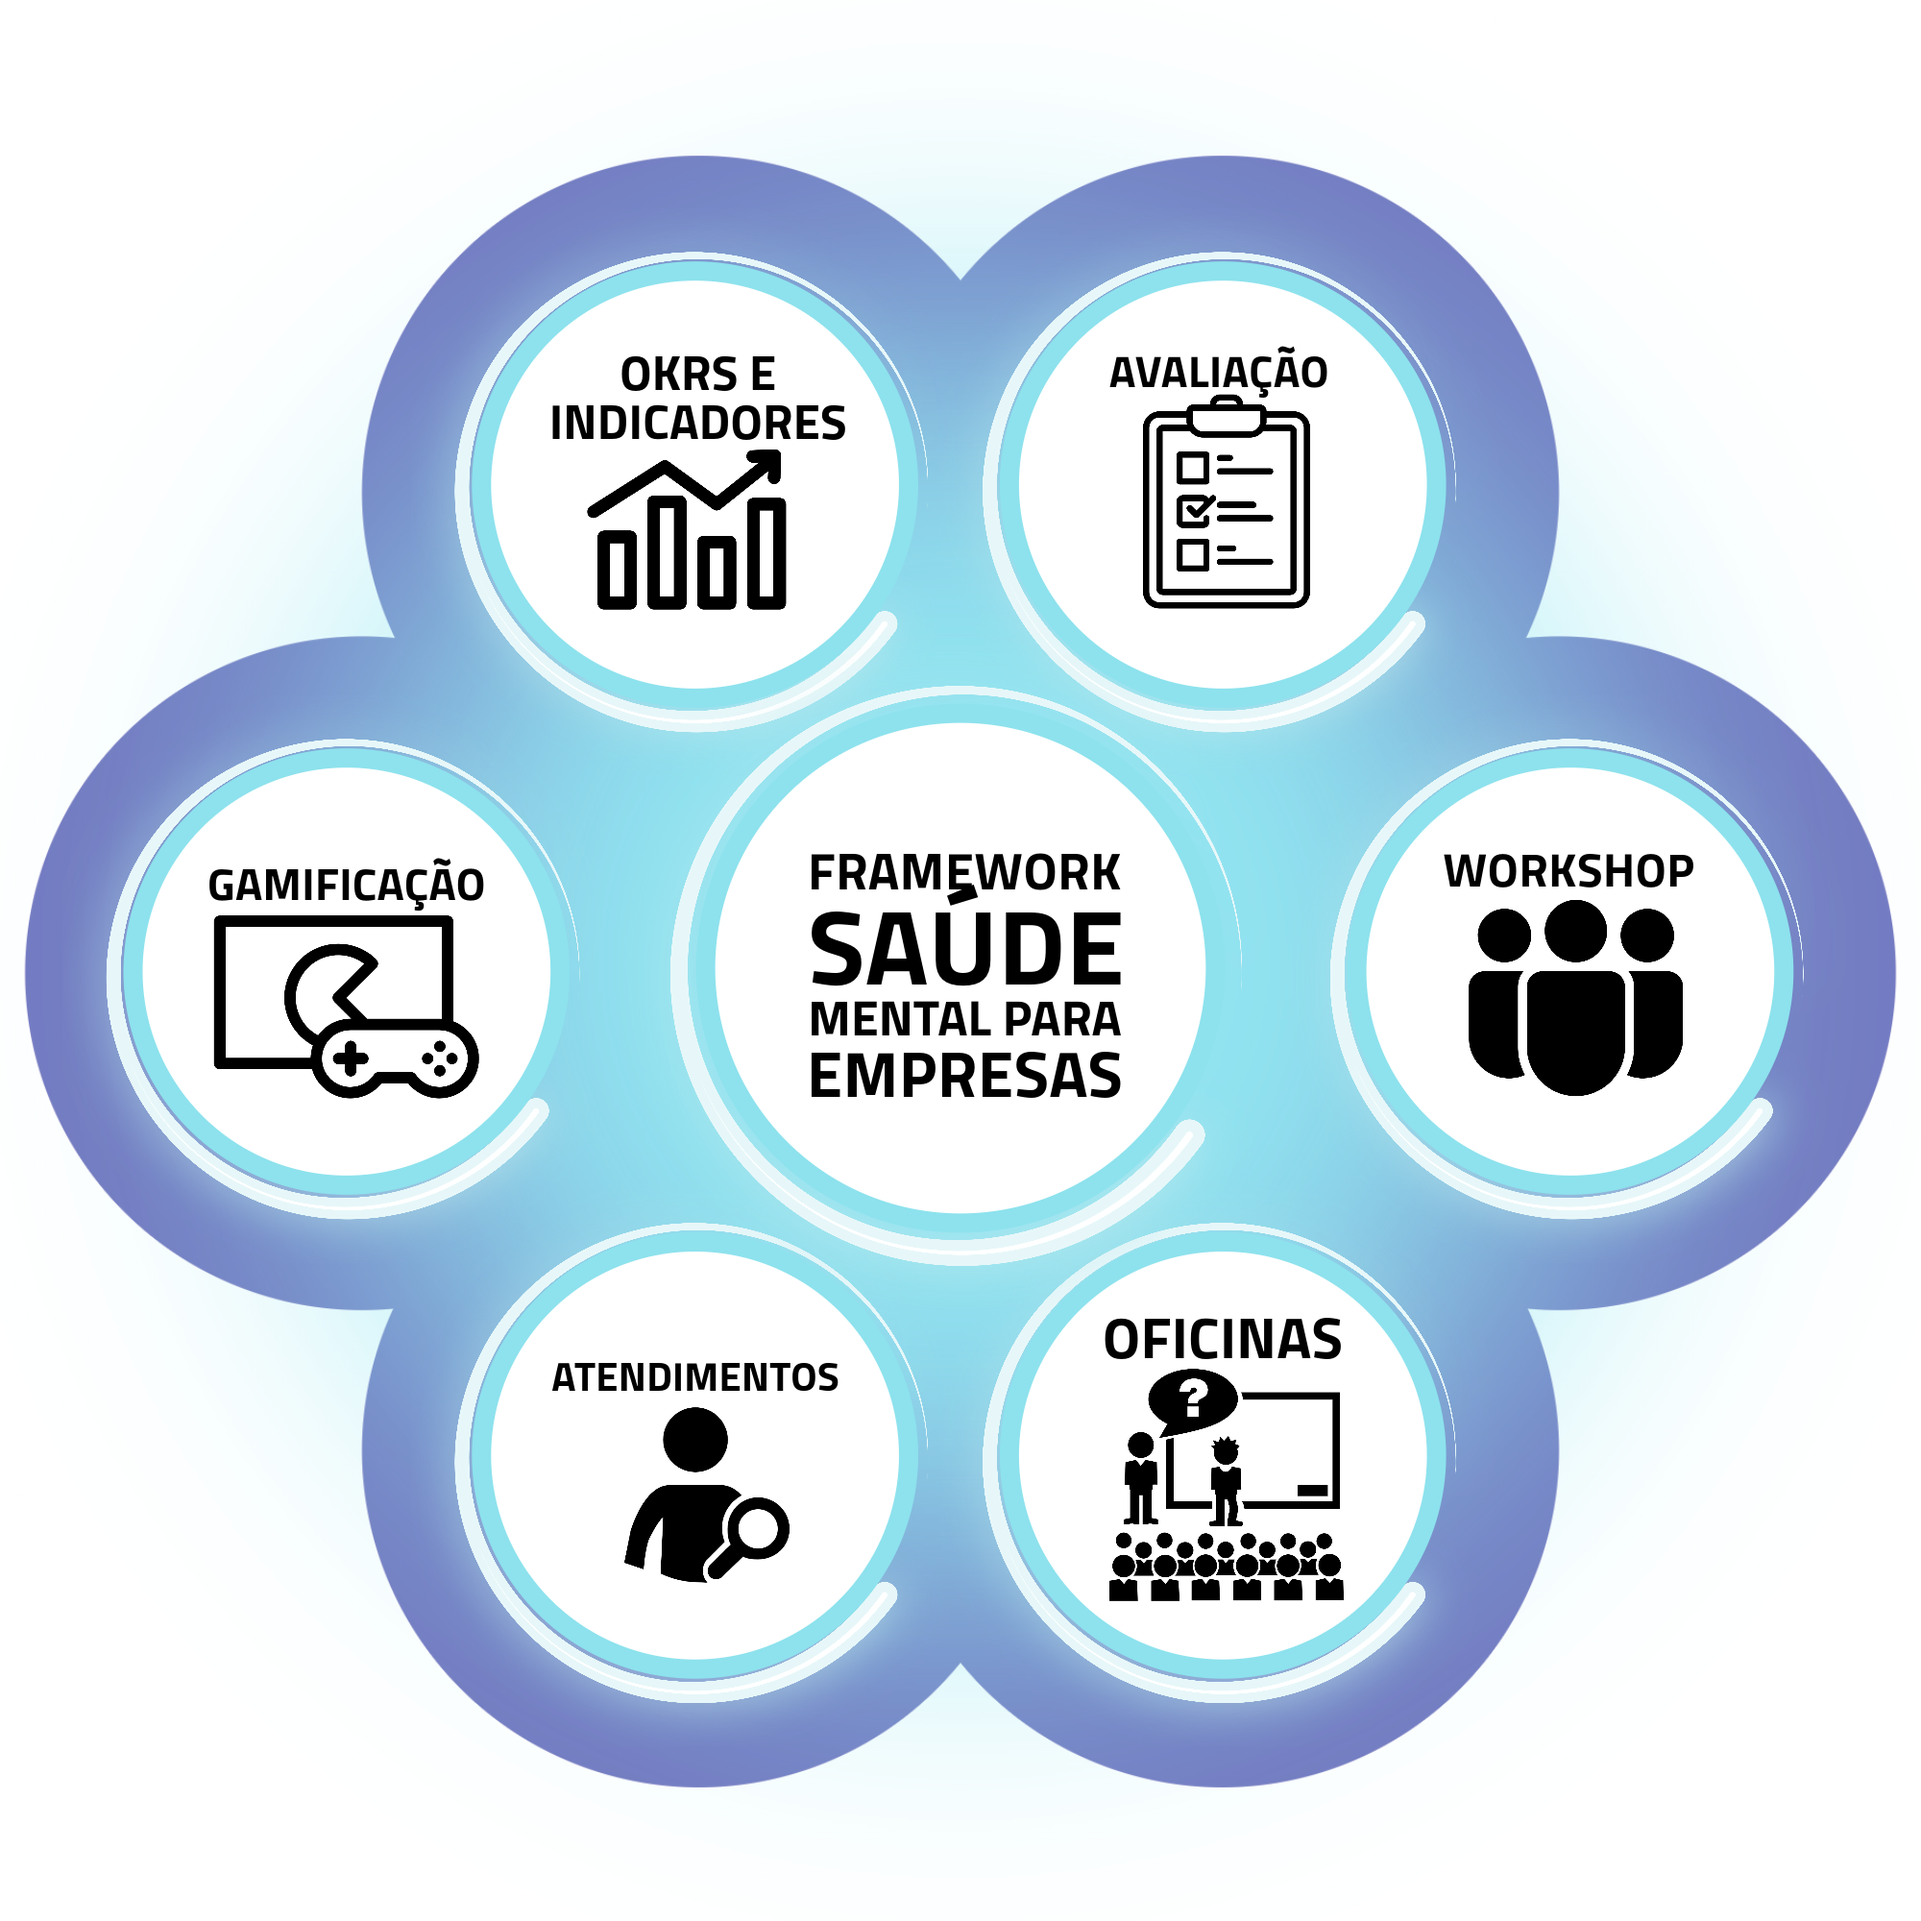
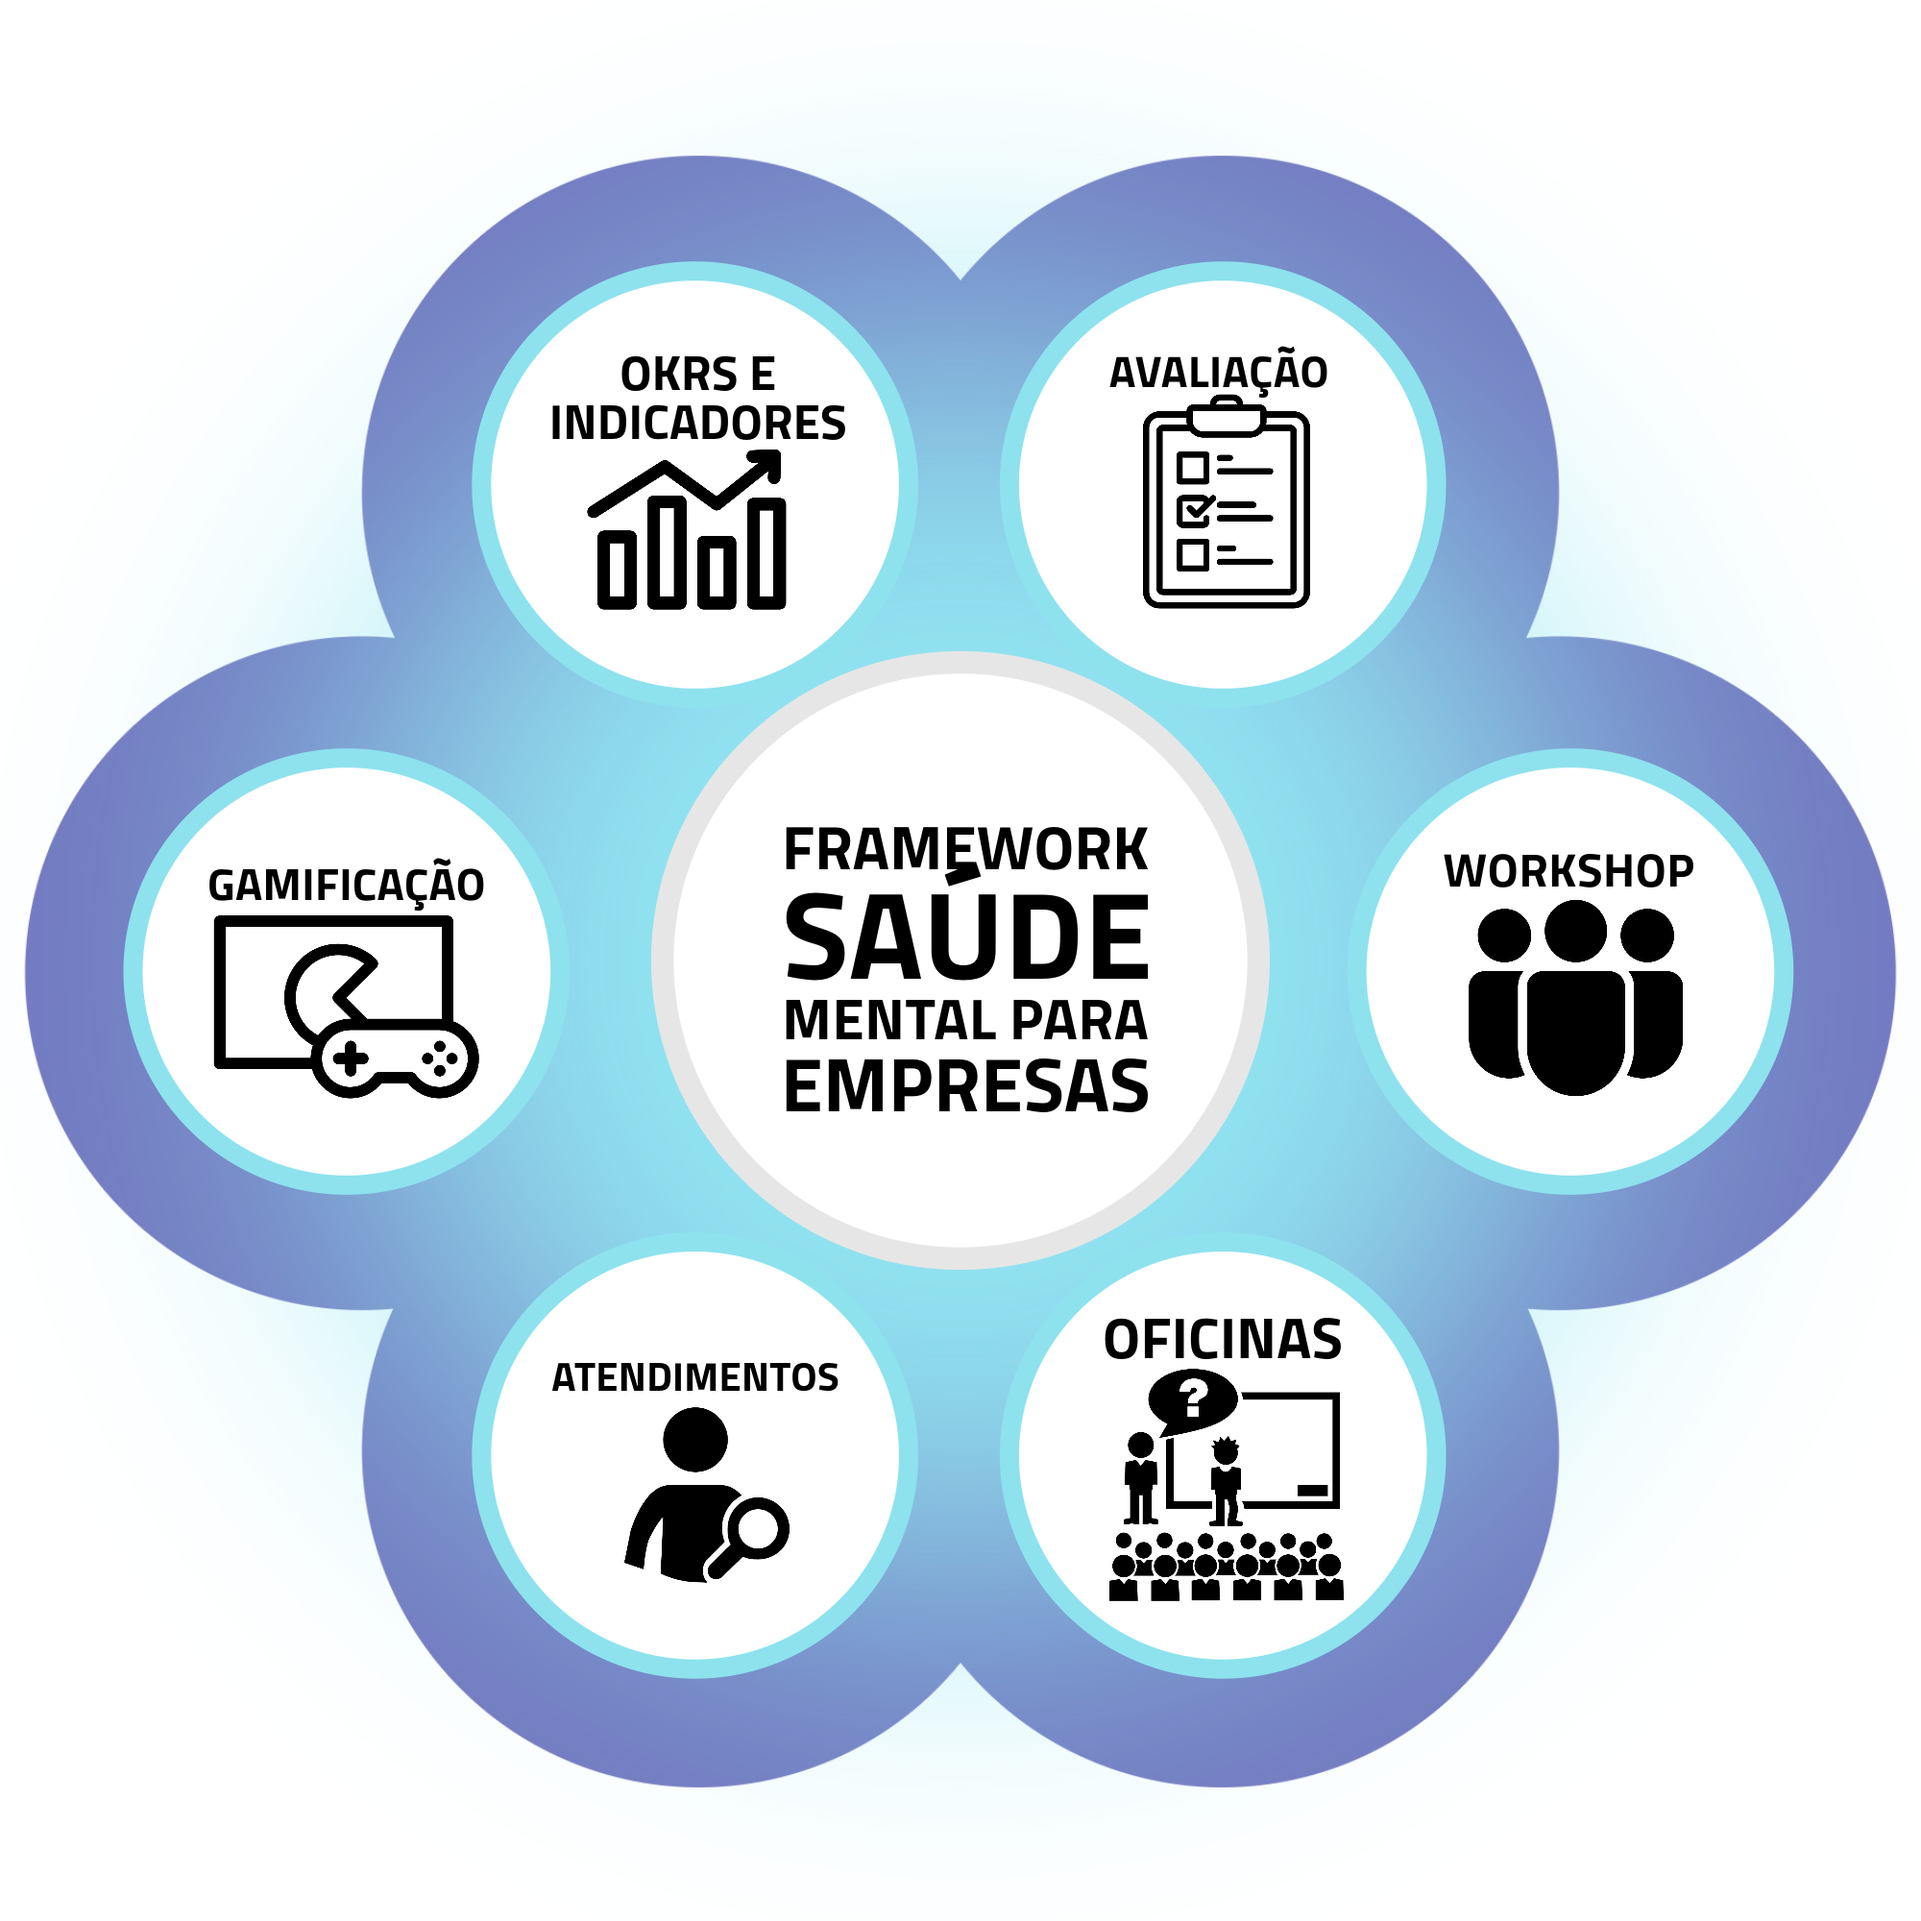
ajustes

diff --git a/Assets/style.css b/Assets/style.css
@@ -3,7 +3,6 @@
     padding: 0px;
     box-sizing: border-box;
     font-family: 'Chakra Petch', sans-serif;
-    scroll-behavior: smooth;
 }
 
 :root{
@@ -12,19 +11,19 @@
 
 /*Scroolbar*/
 ::-webkit-scrollbar {
-    width: 7px;
+    width: 10px;
 }
   
 ::-webkit-scrollbar-track {
-    background: #d8d8d8; 
+    background: #f1f1f1; 
 }
    
 ::-webkit-scrollbar-thumb {
-    background: #777777; 
+    background: #b9b9b9; 
 }
   
 ::-webkit-scrollbar-thumb:hover {
-    background: #ffc61a; 
+    background: #7e7e7e; 
   }
 
 .center{
@@ -37,8 +36,6 @@
     position: relative;
 }
 
-
-
 /*---------------------------Barras---------------------------*/
 @keyframes bar {
     to {
@@ -47,8 +44,8 @@
 }
 
 .bar {
-    border: 5px solid rgb(0, 0, 0);
-    width: auto;
+    border: 5px solid #000000;
+    width: 100%; 
     height: 40px; 
     background-color: var(--color-one);
     background-image: linear-gradient(
@@ -68,36 +65,29 @@
 }
 
 /*------------------------------------------------------*/
-
-/*------------------------------------------------------*/
 .background{
     display: flex; 
     justify-content: center; 
     position: fixed; 
     width: 100%;
     height: 100%;
-    -o-object-fit:cover;
-    object-fit:cover; 
-
+    -o-object-fit: cover;
+    object-fit: cover; 
 }
 
 /*------------------------------------------------------*/
 
 
 .box-title{
-    margin-bottom: 30px; 
-    
+    margin: 25px; 
 }
 
 .title-project{
-    max-width: 900px;
-    width: 70%;  
+    max-width: 1000px;
     text-align: center;
-    font-size: 20px;
-    padding: 30px;
-    border-bottom: 1px solid black;
-    text-shadow: 3px 3px 2px rgba(0, 0, 0, 0.137);
-    
+    padding: 10px;
+    border-bottom: 1px solid #000000;
+    text-shadow: 0px 0px 5px #979797; 
 }
 
 .display-img{ 
@@ -106,22 +96,21 @@
 }
 
 .top-img{
-    width: 130px;
-    height: 130px;
+    width: 100px;
+    height: 100px;
 }
 
 /*------------------------------------------------------*/
 
 .box-dev{
-    margin: auto; 
-    text-align: center;
-    max-width: 700px; 
-    width: 100%;
-    padding: 30px; 
+    text-align: center; 
+    max-width: 800px;  
+    padding: 25px; 
     background-color:#f2f2f200;
-    box-shadow: 0px 0px 20px 0px rgba(0, 0, 0, 0.219);
-    backdrop-filter: blur(5px) saturate(100%);
-    border-radius: 100px;
+    box-shadow: 0px 0px 15px 0px rgba(0, 0, 0, 0.219);
+    backdrop-filter: blur(3px) saturate(100%);
+    border-radius: 30px; 
+    flex-wrap: wrap;
 
 }
 
@@ -135,15 +124,14 @@
 }
 
 /*------------------------------------------------------*/
-video {
-    padding: 30px; 
-    margin: 30px;
+.mandala {
+    padding: 20px;
+    margin-top: 20px;
     width: 100%;
-    max-width: 750px;
-    height: auto;
+    max-width: 800px;
     box-shadow: 0px 0px 20px 0px rgba(0, 0, 0, 0.219);
-    border-radius: 50%;
-    backdrop-filter: blur(5px) saturate(100%);
+    border-radius: 30px;
+    backdrop-filter: blur(3px) saturate(100%);
     pointer-events: none; 
 }
 
@@ -187,6 +175,15 @@ section.card{
 
 
 @media screen and (max-width: 720px) {
+    .box-dev{
+        margin: 0px 20px;
+
+    }
+
+    .mandala{
+
+    }
+
     main.cards {
         flex-direction: column;
     }

diff --git a/index.html b/index.html
@@ -37,28 +37,23 @@
     </section>
 
     <!--Título_Descrição-->
-    <section class="box-dev">
+    <section class="box-dev center">
         <div class="title-dev"> 
             <h2> PROJETO EM DESENVOLVIMENTO </h2>
         </div>
         <div class="sub-title-dev">
-            <p> Atualmente este projeto está em fase de desenvolvimento pela equipe do Centro de Inovação SESI </p>
+            <p>Este projeto está em fase de desenvolvimento pela equipe do Centro de Inovação SESI</p>
         </div>
     </section>
     
     <!--Framework-->
-    <figure class="center">
-        <video  autoplay muted loop>
-            <source src="./Assets/img/Mandala.mp4" type="video/mp4">
-        </video>
-    </figure>
+    <div class="center">
+        <img class="mandala" src="./Assets/img/Mandala_transparent.png" alt="img-mandala"> 
+    </div>
 
     <!--Cards-->
     <main class="cards">
-        <section class="card">
-            <h3>Indicadores de Saúde Mental</h3>
-            <span>Criação de indicadores para acompanhamento dos resultados da saúde mental</span>
-        </section>
+        
         <section class="card">
             <h3>Avaliação dos Fatores de Risco Psicossociais</h3>
             <span>Visando eliminar a subjetividade na percepção em relação a saúde mental dos colaboradores</span>
@@ -78,6 +73,10 @@
         <section class="card">
             <h3>Gamificação em Saúde Mental</h3>
             <span>Jogo interativo com ambientes programados para saúde mental</span>
+        </section>
+        <section class="card">
+            <h3>Indicadores de Saúde Mental</h3>
+            <span>Criação de indicadores para acompanhamento dos resultados da saúde mental</span>
         </section>
     </main>
     
